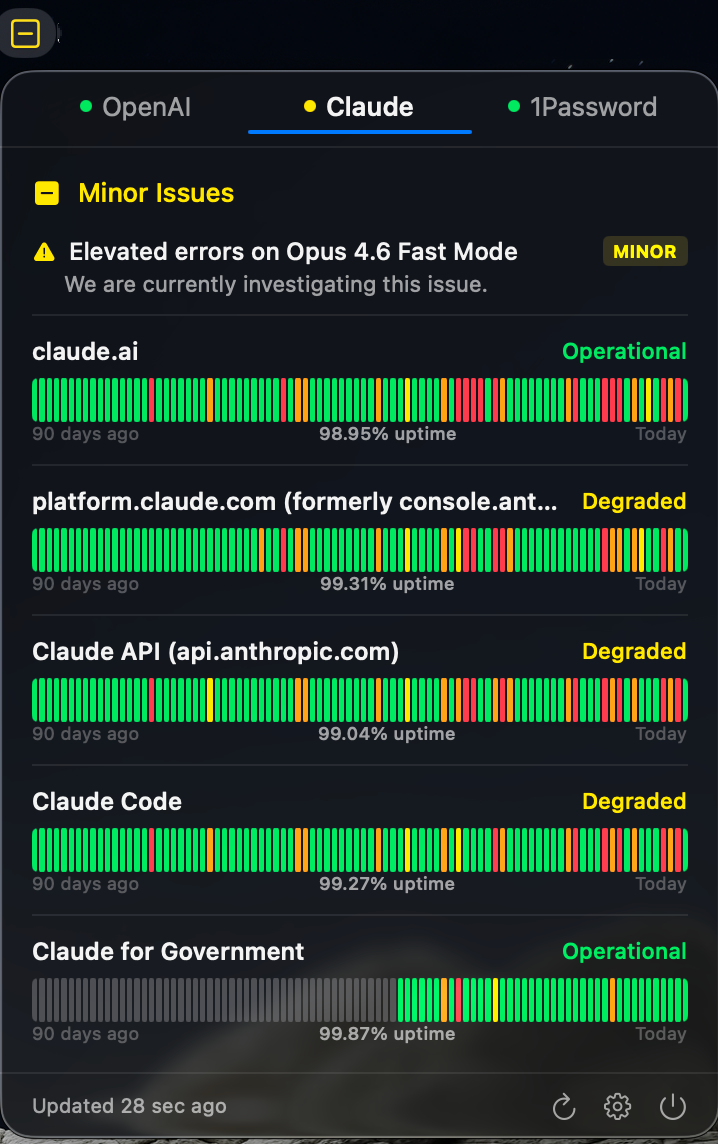
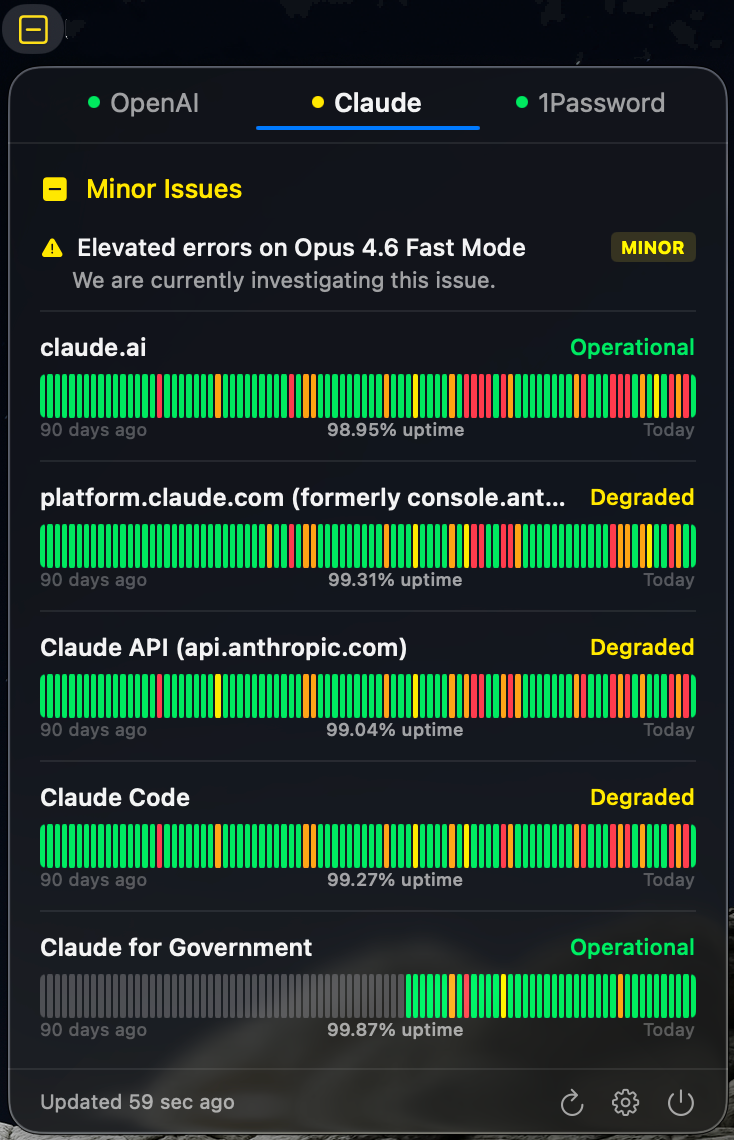
docs: update README screenshot

diff --git a/README.md b/README.md
@@ -5,7 +5,7 @@ Monitor the public status of any service — right from your macOS menu bar.
 Supports [Atlassian Statuspage](https://www.atlassian.com/software/statuspage) and [incident.io](https://incident.io) powered status pages. Ships with **OpenAI** and **Anthropic** built in. Add any compatible service (GitHub, Cloudflare, 1Password, Twilio, ...) by pasting its status page URL.
 
 <p align="center">
-  <img src="screenshot.png" width="360" alt="MenuStatus showing Anthropic status with 90-day uptime bars">
+  <img src="screenshot.png" width="360" alt="MenuStatus showing multiple providers with the Claude status tab active">
 </p>
 
 ## Install
